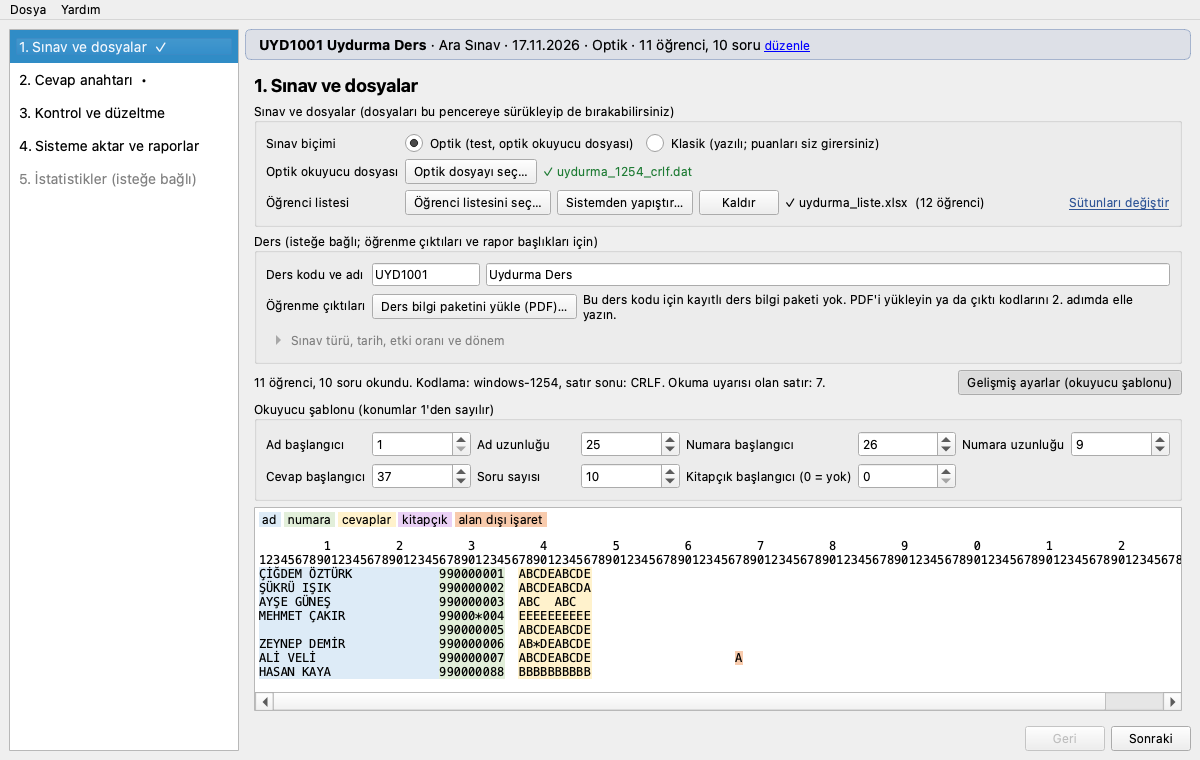
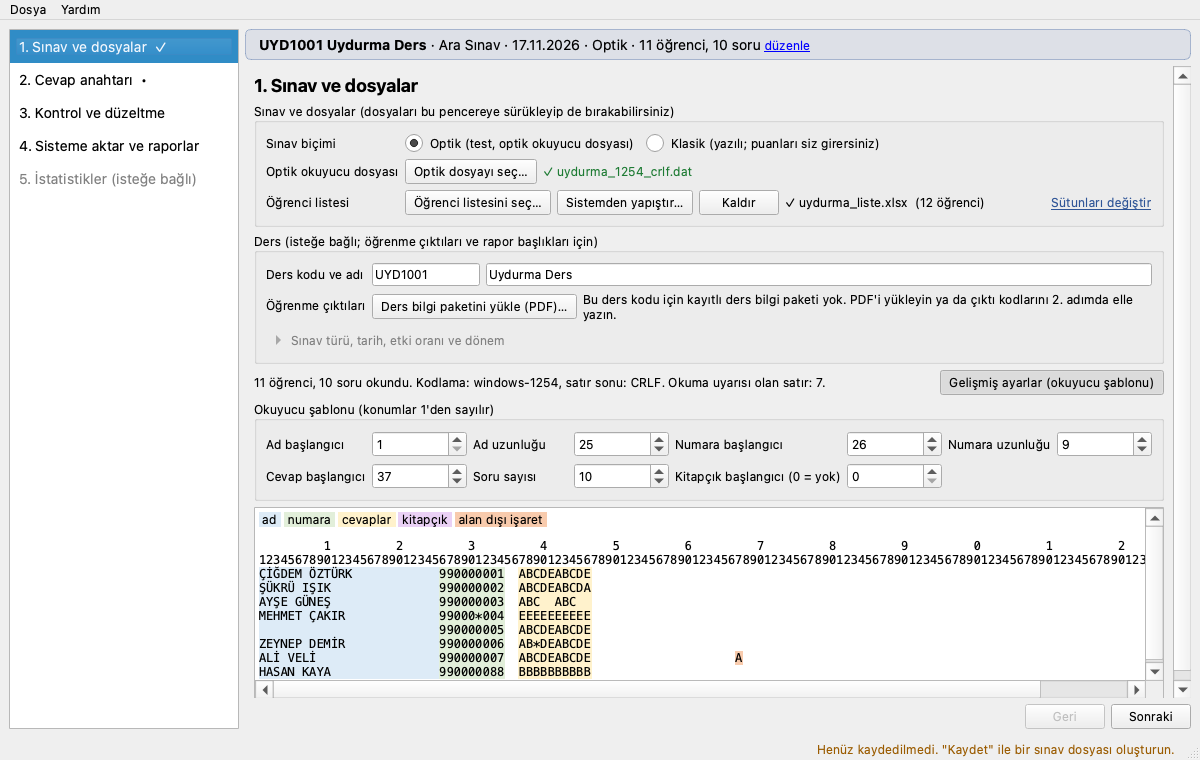
Klasik puan girişinde kayıt göstergesi, Kaydet ve soru puanları satırı

diff --git a/src/optik_sinav/ui/adimlar/kontrol.py b/src/optik_sinav/ui/adimlar/kontrol.py
@@ -8,7 +8,7 @@ from PySide6.QtWidgets import (
     QListWidget,
     QGroupBox,
     QCheckBox, QFileDialog, QHBoxLayout, QHeaderView, QInputDialog, QLabel, QMessageBox, QPushButton, QTableView,
-    QTableWidget, QTableWidgetItem, QTabWidget, QWidget, QVBoxLayout,
+    QLineEdit, QTableWidget, QTableWidgetItem, QTabWidget, QWidget, QVBoxLayout,
 )
 
 from ... import metinler as M
@@ -116,6 +116,32 @@ class KontrolAdimi(Adim):
         v = QVBoxLayout(self.klasik_sayfa)
         from .kagit import KagitPaneli
 
+        # Kayıt durumu her zaman görünür; kalıcı dosya yoksa Kaydet düğmesi öne çıkar
+        s = QHBoxLayout()
+        self.kayit_bilgi = QLabel()
+        self.kayit_bilgi.setWordWrap(True)
+        s.addWidget(self.kayit_bilgi, 1)
+        self.kaydet_dugmesi = QPushButton("Kaydet")
+        self.kaydet_dugmesi.setToolTip("Sınavı bir dosyaya kaydeder (Cmd+S ya da Ctrl+S). Sonra her değişiklik o dosyaya kendiliğinden yazılır.")
+        self.kaydet_dugmesi.clicked.connect(lambda: getattr(self.window(), "kaydet", lambda: None)())
+        s.addWidget(self.kaydet_dugmesi, 0, Qt.AlignmentFlag.AlignTop)
+        v.addLayout(s)
+        self.durum.kaydedildi.connect(self._kayit_bilgisini_yaz)
+        # Soru puanları: 2. adıma dönmeden görülür ve değiştirilir
+        s = QHBoxLayout()
+        s.addWidget(QLabel("Soru puanları:"))
+        self.soru_puanlari = QLineEdit()
+        self.soru_puanlari.setToolTip("Boşlukla ayırarak yazıp Enter'a basın, örneğin 5 5 5 5 20 60. Soru sayısı da buna göre ayarlanır.")
+        self.soru_puanlari.returnPressed.connect(self._soru_puanlarini_uygula)
+        s.addWidget(self.soru_puanlari, 1)
+        b = QPushButton("Uygula")
+        b.clicked.connect(self._soru_puanlarini_uygula)
+        s.addWidget(b)
+        v.addLayout(s)
+        self.puan_uyari = QLabel()
+        self.puan_uyari.setWordWrap(True)
+        self.puan_uyari.setStyleSheet("color: #9a5b00")
+        v.addWidget(self.puan_uyari)
         self.kagit = KagitPaneli(self.durum, self)
         v.addWidget(self.kagit)
         s = QHBoxLayout()
@@ -181,6 +207,8 @@ class KontrolAdimi(Adim):
         for w in (self.olmayan_sayfa, self.duzeltme_tablo):
             self.sekmeler.setTabVisible(self.sekmeler.indexOf(w), not klasik)
         if klasik:
+            self._kayit_bilgisini_yaz()
+            self._soru_puanlarini_yaz()
             self.klasik_model.yenile()
             self.kagit.kur()
             h = self.klasik_tablo.horizontalHeader()
@@ -251,6 +279,35 @@ class KontrolAdimi(Adim):
         self.duzeltilecek_kutusu.setTitle(f"Düzeltilmesi gerekenler ({n})")
         self.duzeltilecek_kutusu.setVisible(n > 0)
         self.temiz_etiketi.setVisible(n == 0)
+
+    def _kayit_bilgisini_yaz(self):
+        metin, kalici = self.durum.kayit_ozeti()
+        self.kayit_bilgi.setText(metin)
+        self.kayit_bilgi.setStyleSheet("color: #1e7b34" if kalici else "color: #9a5b00; font-weight: bold")
+        self.kaydet_dugmesi.setText("Kaydet" if kalici else "Kaydet… (sınav dosyası oluştur)")
+
+    def _soru_puanlarini_yaz(self):
+        a = self.durum.proje.anahtar
+        if not self.soru_puanlari.hasFocus():
+            self.soru_puanlari.setText(" ".join((s.puan or "?").replace(".", ",") for s in a.sorular))
+        from ...core.puanlama import esit_soru_puanlari
+
+        # program kendiliğinden eşit dağıttıysa (hoca puan girmeden geçtiyse) uyarılır
+        esit = a.soru_sayisi > 1 and [s.puan for s in a.sorular] == list(esit_soru_puanlari(self.durum.proje.ayarlar.toplam_puan, a.soru_sayisi))
+        self.puan_uyari.setText("Soru puanları eşit dağıtılmış görünüyor. Sorularınızın puanları farklıysa yukarıya yazıp Enter'a basın "
+                                "(örneğin 5 5 5 5 20 60)." if esit else "")
+        self.puan_uyari.setVisible(esit)
+
+    def _soru_puanlarini_uygula(self):
+        """2. adımdaki soru puanı satırıyla aynı işi görür (soru sayısı azalırken onay dahil)."""
+        anahtar_adimi = getattr(self.window(), "adimlar", [None, None])[1]
+        if anahtar_adimi is None:
+            return
+        anahtar_adimi.hizli.setText(self.soru_puanlari.text())
+        anahtar_adimi._klasik_puanlari_uygula()
+        self.soru_puanlari.clearFocus()
+        self.durum.degerlendir()
+        self.girildi()
 
     def _otomatigi_geri_al(self):
         it = self.duzeltilecekler.currentItem()

diff --git a/src/optik_sinav/ui/durum.py b/src/optik_sinav/ui/durum.py
@@ -29,6 +29,7 @@ def ayarlar() -> QSettings:
 class Durum(QObject):
     degisti = Signal()  # proje, okuma ya da liste değişti
     sonuc_degisti = Signal()
+    kaydedildi = Signal()  # otomatik ya da elle kayıt yapıldı (kayıt göstergeleri için)
 
     def __init__(self):
         super().__init__()
@@ -296,6 +297,8 @@ class Durum(QObject):
         yaz_atomik(hedef, self.kayit_verisi())
         self.proje_yolu = hedef
         son_acilanlara_ekle(str(hedef))
+        self.son_kayit = time.strftime("%H:%M:%S")
+        self.kaydedildi.emit()
         return hedef
 
     # ---------------------------------------------------------- otomatik kayıt
@@ -323,6 +326,18 @@ class Durum(QObject):
         return not (p.dat_yolu or p.liste_yolu or p.klasik_puanlar or p.final_puanlar
                     or any(s.dogru for s in p.anahtar.sorular))
 
+    son_kayit: str = ""
+
+    def kayit_ozeti(self) -> tuple[str, bool]:
+        """(gösterge metni, kalıcı sınav dosyası var mı)."""
+        if self.proje_yolu is not None:
+            zaman = f" {self.son_kayit}" if self.son_kayit else ""
+            return f"✓ Kaydedildi{zaman} · {self.proje_yolu.name} (her değişiklik 2 saniye içinde kendiliğinden kaydedilir)", True
+        if self.son_kayit:
+            return (f"✓ Kurtarma kopyasına kaydedildi {self.son_kayit}. Kalıcı bir sınav dosyası için \"Kaydet\"e basın; "
+                    "sonra her değişiklik o dosyaya da kendiliğinden yazılır."), False
+        return "Henüz kaydedilmedi. \"Kaydet\" ile bir sınav dosyası oluşturun.", False
+
     def otomatik_kaydet(self) -> bool:
         """Değişiklik varsa kurtarma dosyasına ve (açık bir sınav dosyası varsa) ona yazar. Yazdıysa True."""
         if self.bos_mu():
@@ -335,6 +350,8 @@ class Durum(QObject):
         yaz_atomik(kurtarma_yolu(), kurtarma)
         if self.proje_yolu is not None:
             yaz_atomik(self.proje_yolu, veri)
+        self.son_kayit = time.strftime("%H:%M:%S")
+        self.kaydedildi.emit()
         self._son_ozet = ozet
         return True
 

diff --git a/tests/test_arayuz.py b/tests/test_arayuz.py
@@ -647,3 +647,32 @@ def test_sistemden_liste_ve_otomatik_numara(pencere, fix, monkeypatch):
     k._otomatigi_geri_al()
     assert o.kayit.satir_no in d.proje.otomatik_kapali
     assert next(x for x in d.sonuc.ogrenciler if x.kayit.ogrenci_no == "990000088").no == "990000088"
+
+
+def test_puan_girisinde_kayit_gostergesi_ve_soru_puanlari(pencere, fix, tmp_path, monkeypatch):
+    """Klasik 3. adım: kayıt durumu görünür (kalıcı dosya yoksa uyarır, Kaydet düğmesi), soru puanları buradan da değişir."""
+    from PySide6.QtWidgets import QFileDialog
+
+    d = pencere.durum
+    p1 = pencere.adimlar[0]
+    p1.bicim_klasik.setChecked(True)
+    p1._liste_ac(str(fix / "uydurma_liste.xlsx"))
+    pencere.adim_listesi.setCurrentRow(2)
+    k = pencere.adimlar[2]
+    assert k.puan_uyari.isVisibleTo(k)  # puanlar girilmediği için eşit dağıtıldı uyarısı
+    pencere.otomatik_kaydet()
+    assert "Kurtarma kopyasına kaydedildi" in k.kayit_bilgi.text() and "oluştur" in k.kaydet_dugmesi.text()
+    k.soru_puanlari.setText("5 5 5 5 20 60")
+    k._soru_puanlarini_uygula()
+    assert [s.puan for s in d.proje.anahtar.sorular] == ["5", "5", "5", "5", "20", "60"] and not k.puan_uyari.isVisibleTo(k)
+    yol = tmp_path / "klasik.osd"
+    monkeypatch.setattr(QFileDialog, "getSaveFileName", lambda *x, **kw: (str(yol), ""))
+    k.kaydet_dugmesi.click()
+    assert yol.exists() and "Kaydedildi" in k.kayit_bilgi.text() and "klasik.osd" in k.kayit_bilgi.text()
+    assert "Kaydedildi" in pencere.kayit_etiketi.text() and k.kaydet_dugmesi.text() == "Kaydet"
+    # 2. adımda Enter'a basmadan başka yere geçince de uygulanır
+    pencere.adim_listesi.setCurrentRow(1)
+    a = pencere.adimlar[1]
+    a.hizli.setText("10 10 80")
+    a.hizli.editingFinished.emit()
+    assert [s.puan for s in d.proje.anahtar.sorular] == ["10", "10", "80"]

diff --git a/src/optik_sinav/ui/adimlar/anahtar.py b/src/optik_sinav/ui/adimlar/anahtar.py
@@ -252,6 +252,7 @@ class AnahtarAdimi(Adim):
         s.addWidget(self.hizli_etiket)
         self.hizli = QLineEdit()
         self.hizli.returnPressed.connect(self._hizli_uygula)
+        self.hizli.editingFinished.connect(self._klasik_odaktan_cikinca)
         s.addWidget(self.hizli, 1)
         b = QPushButton("Uygula")
         b.clicked.connect(self._hizli_uygula)
@@ -769,6 +770,14 @@ class AnahtarAdimi(Adim):
         """Klasik sınavda üstteki satır, o anki soru puanlarını gösterir (doğrudan düzenlenebilir)."""
         if self.klasik and not self.hizli.hasFocus():
             self.hizli.setText(" ".join((s.puan or "?").replace(".", ",") for s in self.anahtar.sorular))
+
+    def _klasik_odaktan_cikinca(self):
+        """Klasikte puanlar yazılıp Enter'a basılmadan başka yere geçilirse de uygulanır (değiştiyse)."""
+        if not self.klasik or self._yukleniyor:
+            return
+        simdiki = " ".join((s.puan or "?").replace(".", ",") for s in self.anahtar.sorular)
+        if self.hizli.text().strip() and self.hizli.text().split() != simdiki.split():
+            self._klasik_puanlari_uygula()
 
     def _klasik_puanlari_uygula(self):
         try:

diff --git a/src/optik_sinav/ui/ana_pencere.py b/src/optik_sinav/ui/ana_pencere.py
@@ -117,10 +117,20 @@ class AnaPencere(QMainWindow):
         self.durum.sonuc_degisti.connect(self._dugmeleri_guncelle)
         self._dugmeleri_guncelle()
         # Otomatik kayıt: iki saniyede bir, yalnızca değişiklik varsa yazar (puan girişi dahil her şey)
+        self.kayit_etiketi = QLabel()
+        self.statusBar().addPermanentWidget(self.kayit_etiketi)
+        self.durum.kaydedildi.connect(self._kayit_etiketini_yaz)
+        self._kayit_etiketini_yaz()
         self.kayit_zamanlayici = QTimer(self)
         self.kayit_zamanlayici.setInterval(2000)
         self.kayit_zamanlayici.timeout.connect(self.otomatik_kaydet)
         self.kayit_zamanlayici.start()
+
+    def _kayit_etiketini_yaz(self):
+        metin, kalici = self.durum.kayit_ozeti()
+        self.kayit_etiketi.setText(metin.split(" (")[0].split(". Kalıcı")[0])
+        self.kayit_etiketi.setStyleSheet("color: #1e7b34" if kalici else "color: #9a5b00")
+        self.kayit_etiketi.setToolTip(metin)
 
     def otomatik_kaydet(self):
         try:

diff --git a/CLAUDE.md b/CLAUDE.md
@@ -76,6 +76,7 @@ Ayrıntılı tanım `PROJE_TANIMI.md` dosyasındadır. Bu dosya önemli kararlar
 - Masaüstünde her adım `QScrollArea` içindedir ve uzun açıklamalar satıra kayar; altı adım 900×600 pencereye yatay kaydırmasız sığar. Yeni uzun `QLabel` eklerken `setWordWrap(True)` verin, uzun düğme sıralarını ızgaraya dizin.
 - **Gezinme (15 Kasım 2026):** altı adım arasında serbestçe dolaşılır; eksikler engellemez, alt satırda ve sonuç adımlarında (4-6) üstteki turuncu şeritte adım bağlantısıyla gösterilir. Sonuç yalnızca `Durum.hesap_eksikleri()` / `UI.hesapEksikleri()` boşsa hesaplanır (eksik anahtarla herkese 0 gösterilmesin diye). 1-3. adımlar, kendisi ve öncekiler eksiksizse listede ✓ alır. Zorunlu olan yalnızca: optik dosya (klasikte öğrenci listesi), soru sayısı, anahtar ve puanlar. Ders kodu ve sınav bilgileri isteğe bağlıdır; boşsa dosya adları `SINAV` ile başlar. Seçilmemiş zorunlu dosyanın düğmesi yeşil ve dolguludur.
 - **Otomatik kayıt (masaüstü, 15 Kasım 2026):** `AnaPencere` 2 saniyede bir `Durum.otomatik_kaydet()` çağırır; proje sözlüğü (gömülü dosyalar hariç) son yazılanla aynıysa yazmaz. Yazılan yer `kullanici_klasoru()/kurtarma/son_calisma.osd` (+ `kaynak_proje_yolu`, `kayit_zamani`) ve açık bir `.osd` varsa o dosya; ikisi de `yaz_atomik` ile. Kayıt optik dosya ve listeyi `gomulu_dosyalar` (base64; tarayıcı sürümüyle aynı alan) olarak içerir; `Durum.ac` özgün dosya yoksa gömülü kopyayı `kurtarma/dosyalar/` altına çıkarır. Açılışta (komut satırında .osd yoksa) `kurtarmayi_sor`; "Hayır" ve "Yeni sınav" kurtarma dosyasını `kurtarma/yedekler/` altına taşır (son 20). Klasik sınavda puan girişi `klasik_puan_yaz` sinyal yaymadığı için zamanlayıcı yaklaşımı seçildi.
+- **Kayıt göstergesi (17 Kasım 2026, kullanıcı: "insan kendini güvende hissetmiyor"):** `Durum.kaydedildi` sinyali, `son_kayit`, `kayit_ozeti()`; pencerenin durum çubuğunda kalıcı `kayit_etiketi` (yeşil: sınav dosyasına kaydedildi; turuncu: yalnızca kurtarma kopyası). Klasik 3. adımın üstünde kayıt satırı ve "Kaydet" (`KontrolAdimi.kayit_bilgi`, `kaydet_dugmesi`), "Soru puanları" satırı (`soru_puanlari`, 2. adımın `_klasik_puanlari_uygula` ile aynı iş) ve puanlar kendiliğinden eşit dağıtılmışsa uyarı (`puan_uyari`). 2. adımda klasik puan satırı odaktan çıkınca da uygulanır (`_klasik_odaktan_cikinca`). Tarayıcı sürümünde bu göstergeler yok (orada her değişiklik tarayıcıya kaydedilir).
 - **PDF öğrenci listesi:** `io/liste_okuyucu.py` `pdf_satirlari` (pypdf `extraction_mode="layout"`, iki ve daha çok boşluk = sütun) → `pdf_hucrelerinden_tablo` → `["Öğrenci No", "Adı Soyadı"]` tablosu; sonrası Excel ile aynı. Tarayıcıda `UI.pdfHucreleri` (pdf.js parçaları, yazı boyunun 0,6 katından geniş boşluk = sütun) → `OS.pdfHucrelerindenTablo` → sekmeli metin olarak yüklenir (`<ad> (PDF).txt`). Ortak örnekler `tests/web/liste_pdf.json` (parite). Bırakılan PDF önce ders bilgi paketi olarak denenir, olmazsa liste. Hücrelerin başındaki ve sonundaki tablo çizgileri (`_CIZGI`: `|│┃¦┆┊║`) ayıklanır: sistemin "öğrenci listesi" PDF'i sütunları `|` ile ayırıyor (17 Kasım 2026, gerçek 93 kişilik liste eksiksiz okundu). Tek boşluklu satırlarda addan sonraki bölüm adı ada karışabilir.
 - **Klasik sınavda 2. adım "Sorular ve puanlar"** (`M.ADIM_KLASIK_2`): üstteki satır `puan_listesi_coz` / `OS.puanListesiCoz` ile soru sayısını ve puanları birlikte ayarlar (virgül ondalık; sondaki ya da çoklu virgül ayırıcı; örnekler `tests/web/puan_listesi.json`, paritede). "+ Soru ekle" / "− Son soruyu çıkar"; soru sayısı azalırken çıkan sorulara puan girilmişse onay sorulur, `klasik_puanlar` kırpılmaz (motor yalnızca ilk n değeri kullanır). Klasikte puan eksikleri 2. adıma, optikte 3. adıma sayılır.
 - Klasik sınavda soru puanlarının hepsi boşsa `anahtari_boyutla` / `UI.anahtariBoyutla` toplamı eşit dağıtır (2. adım atlanabildiği için).
